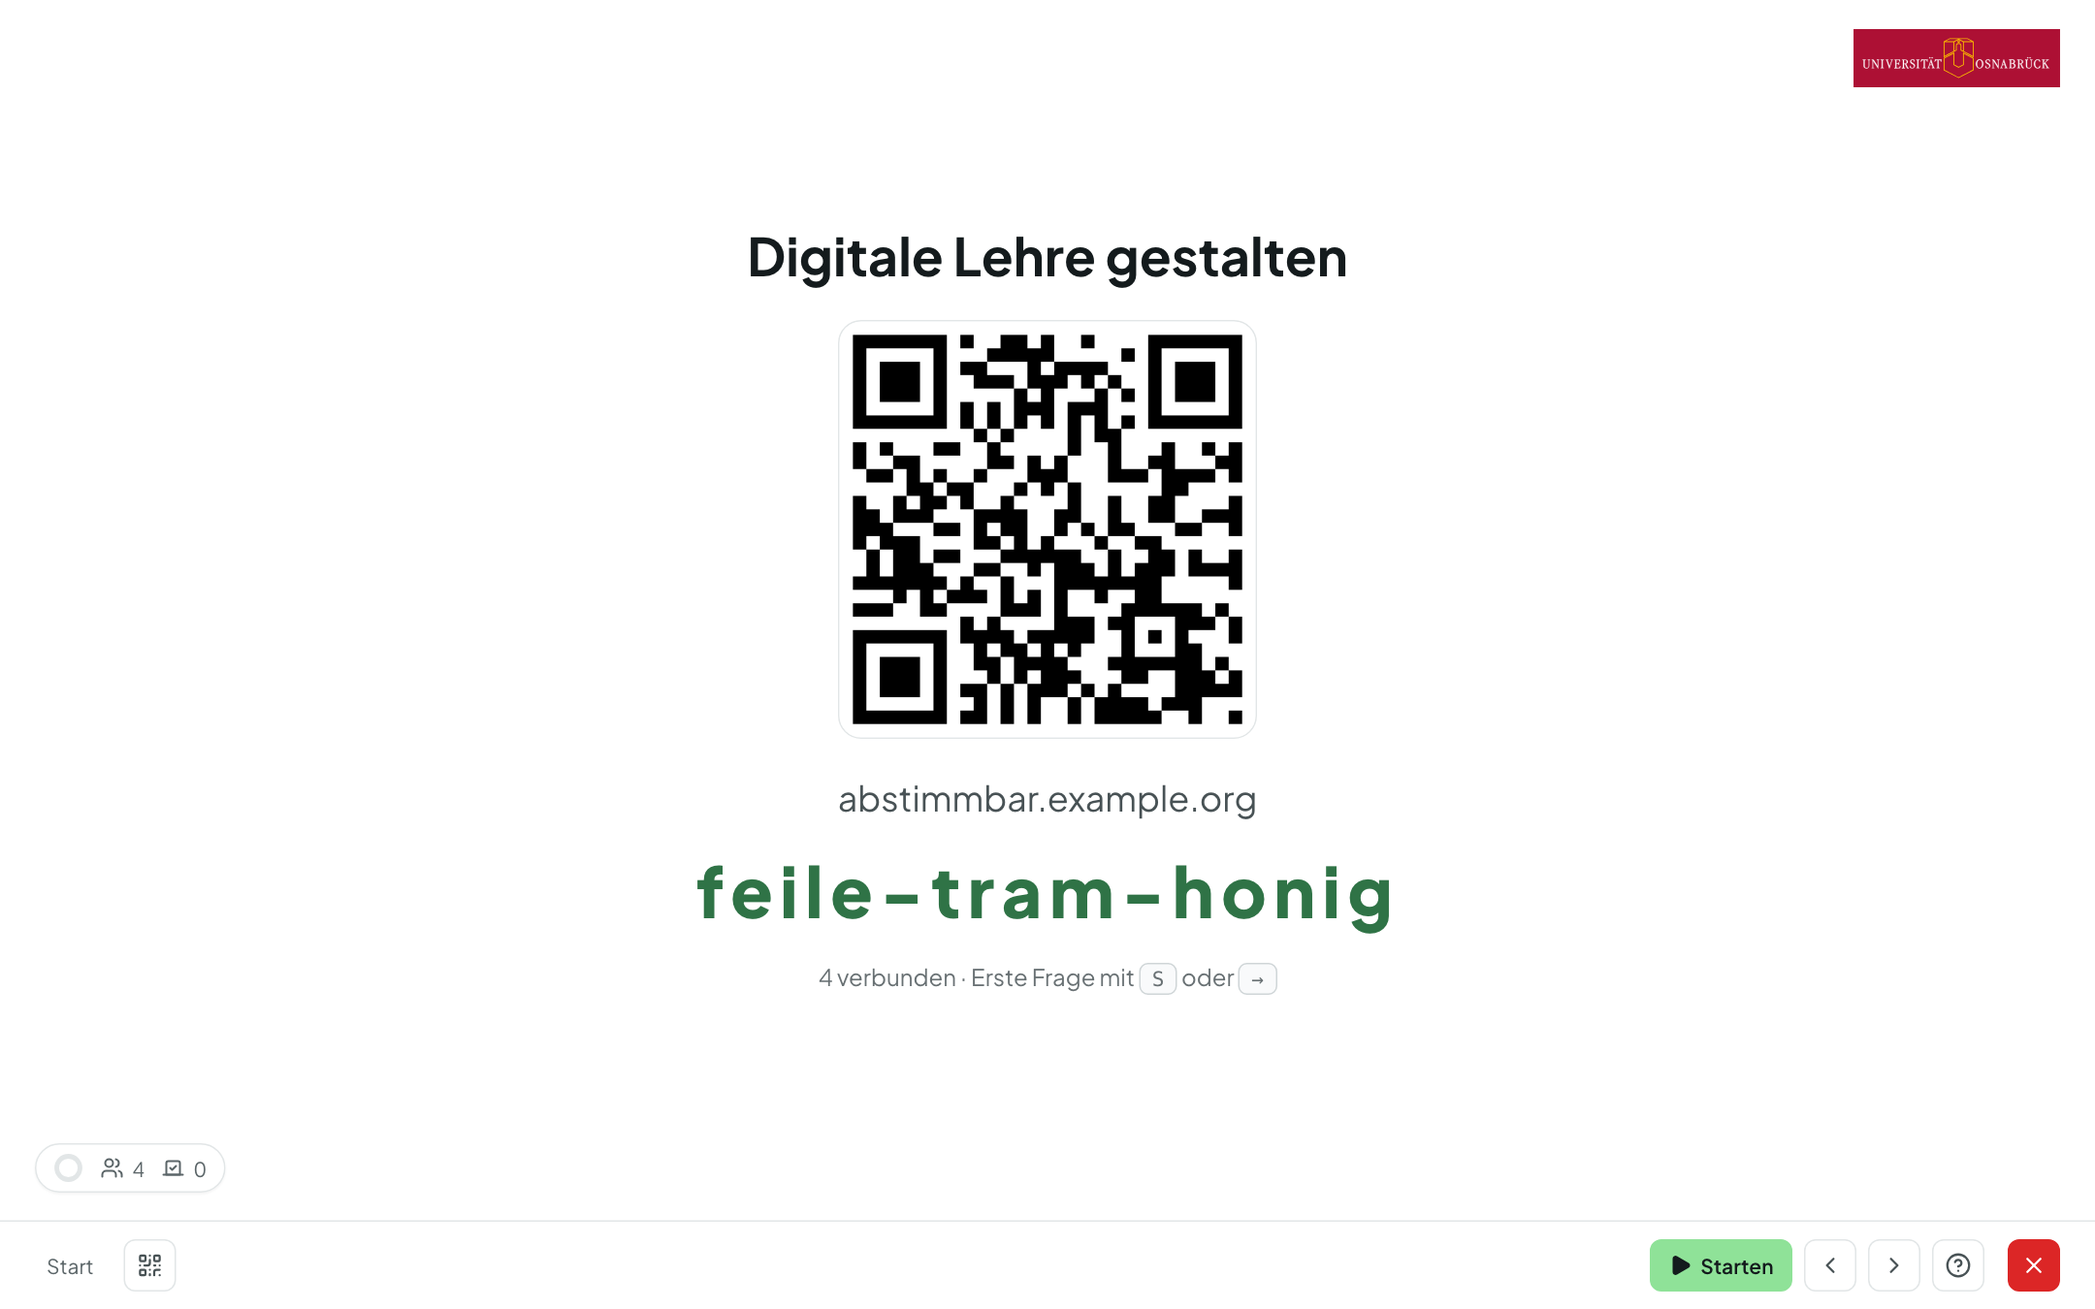
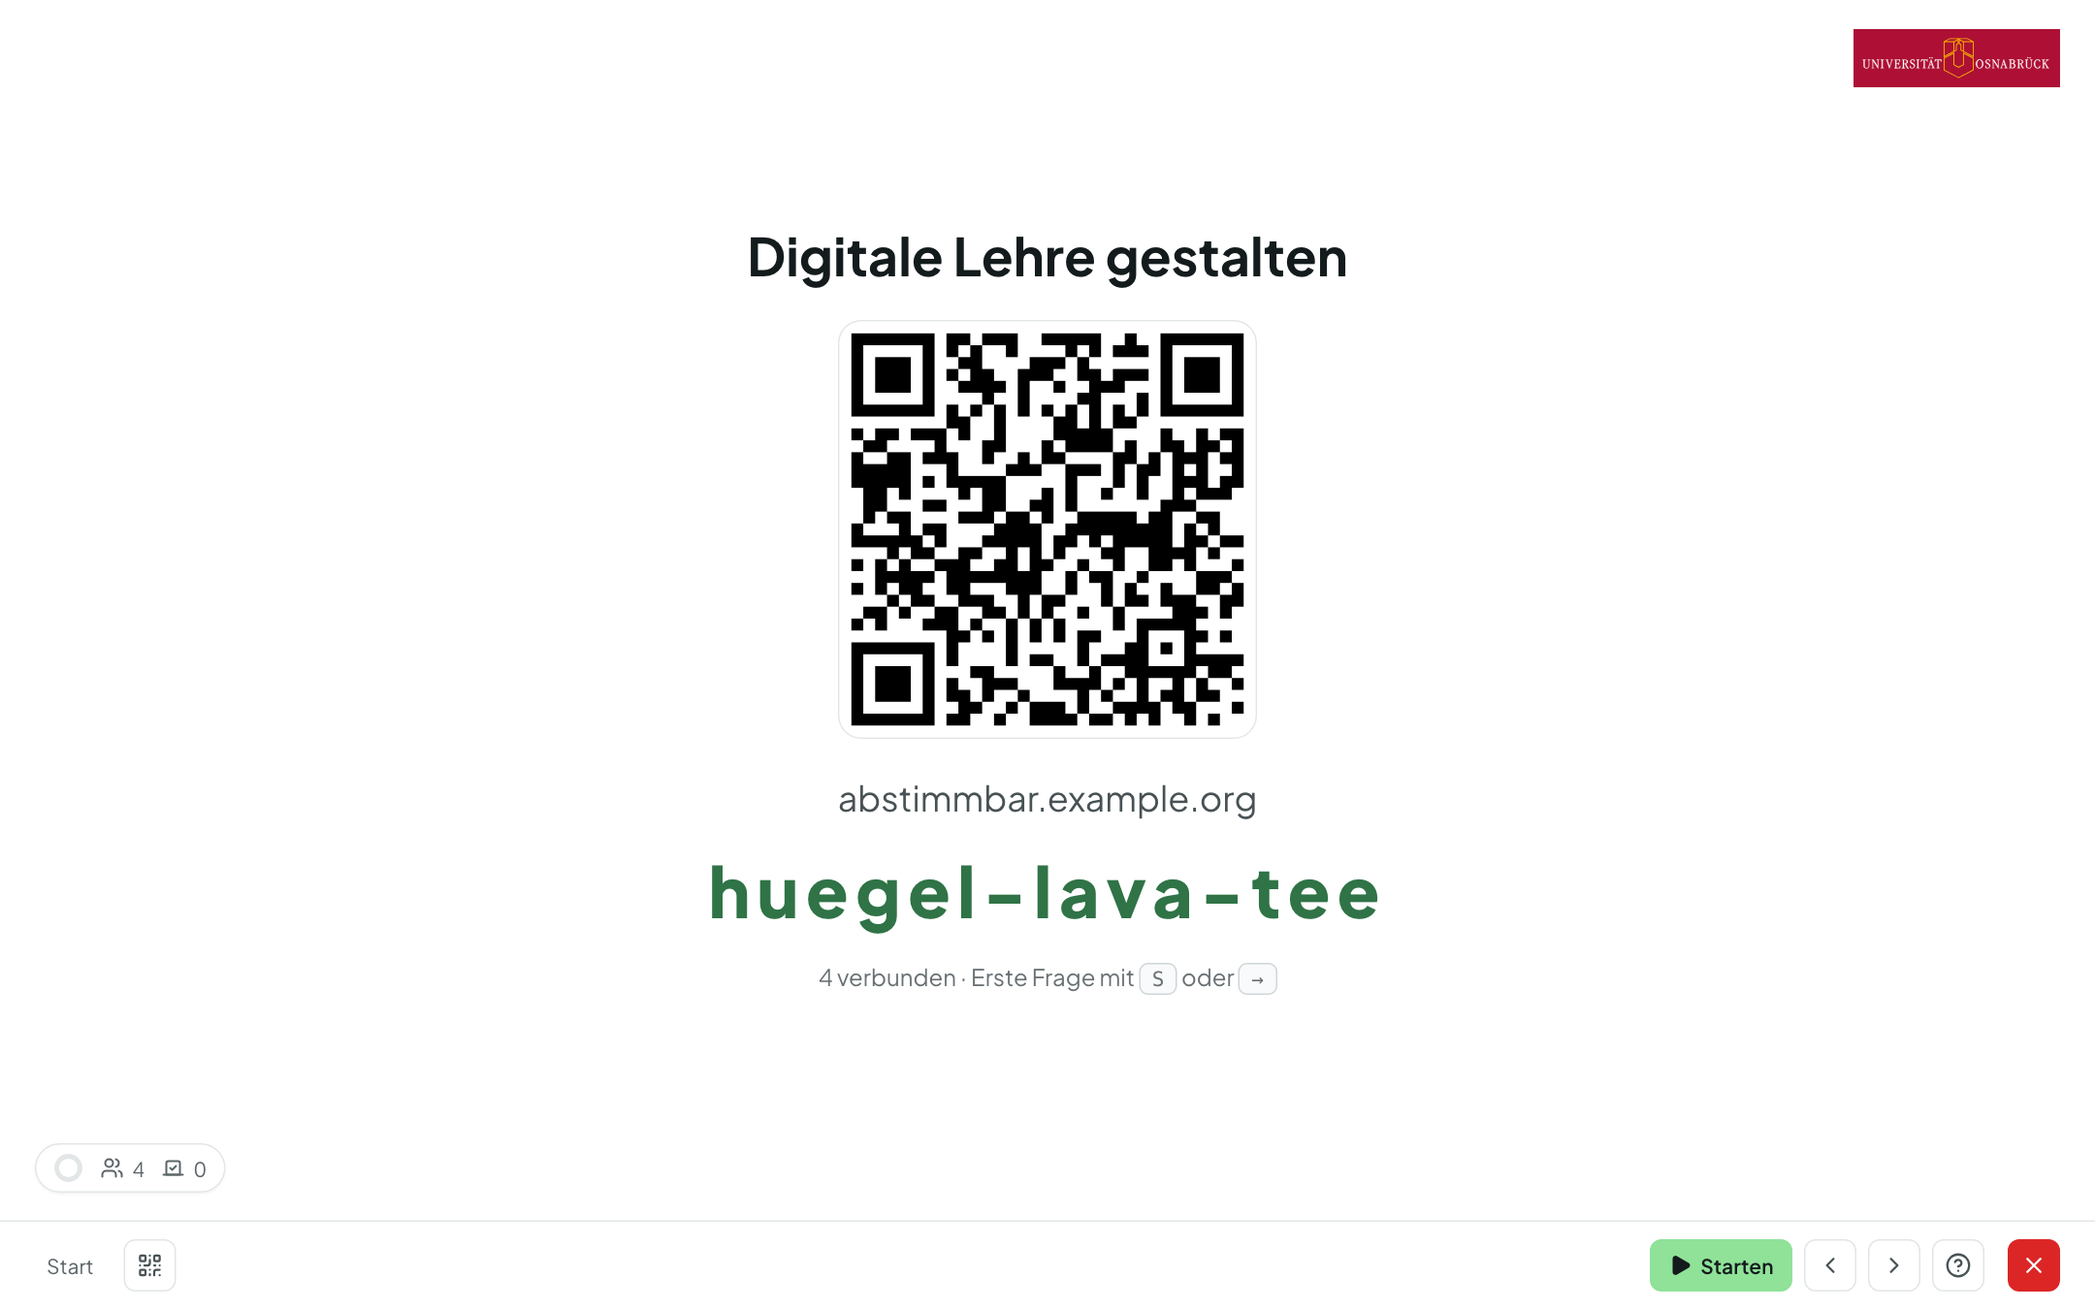
docs(site): review fixes — LMS wording, Sie-form deployment guide, public QR
- Landing/guide: LTI 1.3 "in Lernplattformen wie Moodle" (Stud.IP once it
  supports LTI 1.3), AI card wording, "1000 simulierte Teilnehmende".
- Guide: rating phase only for mind map and matrix, CSV "bewertung" column
  wording, collaborator suggestions as in the UI.
- docs/deployment.md converted to Sie-form (content unchanged).
- docs.yml: build on pull requests too; Pages upload/deploy only outside PRs.
- docs_links hook: normalise rewritten paths against docs/.
- Screenshot spec: the join QR encodes https://abstimmbar.example.org/p/<code>
  (generated with the backend's qrcode library), DOCS_SHOTS_ONLY filter;
  beamer-beitritt.png regenerated.
- website/README: run mkdocs from the repo root.

Changed region(s): [[0.4032, 0.2489, 0.6204, 0.56], [0.3102, 0.6533, 0.6824, 0.7156]]

diff --git a/frontend/e2e/docs-screenshots.spec.ts b/frontend/e2e/docs-screenshots.spec.ts
@@ -9,7 +9,11 @@
  *  Light theme; desktop/beamer 1440×900 and phone 390×844, rendered at
  *  device scale 1.5 / 2. Never calls an LLM: the matrix AI proposal is simulated
  *  and signed by the backend (`helpers/matrixAi.ts`) and route-mocked.
- *  DOCS_SHOTS_DIR=<dir> writes elsewhere (default: ../website/bilder). */
+ *  DOCS_SHOTS_DIR=<dir> writes elsewhere (default: ../website/bilder);
+ *  DOCS_SHOTS_ONLY=<name>,<name> writes only those shots (the run is the same).
+ *  The beamer's join QR encodes the public placeholder URL, generated with the
+ *  backend's own QR code library (needs `docker compose` in the repo root). */
+import { execFileSync } from 'node:child_process';
 import fs from 'node:fs';
 import path from 'node:path';
 import { fileURLToPath } from 'node:url';
@@ -20,7 +24,10 @@ import { applySummary, signedProposal } from './helpers/matrixAi';
 
 const HERE = path.dirname(fileURLToPath(import.meta.url));
 const OUT = path.resolve(process.env.DOCS_SHOTS_DIR ?? path.join(HERE, '../../website/bilder'));
+const ONLY = (process.env.DOCS_SHOTS_ONLY ?? '').split(',').map((n) => n.trim()).filter(Boolean);
 const PREFIX = 'E2E Docs';
+/** Host shown (and encoded in the QR) instead of the dev stack's localhost:8002. */
+const PUBLIC_HOST = 'abstimmbar.example.org';
 const DESKTOP = { width: 1440, height: 900 };
 const PHONE = { width: 390, height: 844 };
 const PHONE_UA =
@@ -63,6 +70,7 @@ const HIDE_TRANSIENT = `
 `;
 
 async function shot(page: Page, name: string) {
+  if (ONLY.length && !ONLY.includes(name)) return;
   await settle(page);
   await page.addStyleTag({ content: HIDE_TRANSIENT });
   await page.mouse.move(0, 0);
@@ -70,6 +78,20 @@ async function shot(page: Page, name: string) {
   const file = path.join(OUT, `${name}.png`);
   fs.writeFileSync(file, png);
   console.log(`  ${name}.png  ${Math.round(png.length / 1024)} KB`);
+}
+
+/** The room QR as production would render it: same library and settings as
+ *  `live.views.room_qr`, but for https://<PUBLIC_HOST>/p/<code> instead of
+ *  the dev host (the backend builds it from the request host). */
+function publicRoomQr(code: string): Buffer {
+  const script =
+    'import sys, qrcode; ' +
+    'qrcode.make(sys.argv[1], box_size=12, border=1).save(sys.stdout.buffer, format="PNG")';
+  return execFileSync(
+    'docker',
+    ['compose', 'exec', '-T', 'backend', 'python', '-c', script, `https://${PUBLIC_HOST}/p/${code}`],
+    { cwd: path.join(HERE, '../..') },
+  );
 }
 
 /** whoami as the screenshots want it: tour seen, expert mode, AI on. */
@@ -429,16 +451,20 @@ test('website screenshots', async ({ page, browser }) => {
     contexts.push(audience);
     for (let i = 0; i < 4; i++) await (await audience.newPage()).goto(`${API_BASE_URL}/p/${workshop.code}/`);
 
-    // Beamer join screen (no question open yet).
+    // Beamer join screen (no question open yet), QR for the public URL.
+    const qrPng = publicRoomQr(workshop.code);
+    await page.route(`**/p/${workshop.code}/qr.png`, (route) =>
+      route.fulfill({ status: 200, contentType: 'image/png', body: qrPng }),
+    );
     await page.goto(`/sets/${main.id}/present?resume=continue`);
     await expect(page.getByText(workshop.code).first()).toBeVisible();
     // The dev stack's join URL would read "localhost:8002".
-    await page.evaluate(() => {
+    await page.evaluate((host) => {
       const walker = document.createTreeWalker(document.body, NodeFilter.SHOW_TEXT);
       for (let node = walker.nextNode(); node; node = walker.nextNode())
         if (node.nodeValue?.includes('localhost:8002'))
-          node.nodeValue = node.nodeValue.replace(/https?:\/\/|localhost:8002/g, (m) => (m.startsWith('http') ? '' : 'abstimmbar.example.org'));
-    });
+          node.nodeValue = node.nodeValue.replace(/https?:\/\/|localhost:8002/g, (m) => (m.startsWith('http') ? '' : host));
+    }, PUBLIC_HOST);
     await shot(page, 'beamer-beitritt');
 
     // Phone: join page.

diff --git a/website/hooks/docs_links.py b/website/hooks/docs_links.py
@@ -43,7 +43,13 @@ class _Rewrite(Treeprocessor):
             target = posixpath.normpath(posixpath.join(page_dir, path))
             if _state["files"].get_file_from_path(target) is not None:
                 continue
-            link.set("href", GITHUB_DOCS + path + (f"#{anchor}" if anchor else ""))
+            # Included files live in docs/: resolve against that folder so
+            # "./x.md" or "sub/../x.md" end up as a clean docs/ path.
+            repo_path = posixpath.normpath(posixpath.join("docs", path))
+            if not repo_path.startswith("docs/"):
+                continue  # points outside docs/ — leave it to MkDocs' check
+            url = GITHUB_DOCS + repo_path[len("docs/"):]
+            link.set("href", url + (f"#{anchor}" if anchor else ""))
 
 
 class _RewriteExtension(Extension):

diff --git a/docs/deployment.md b/docs/deployment.md
@@ -27,8 +27,8 @@ Alltagskommandos, Updates, Zertifikate und Backup.
 ## Installation auf Rocky Linux 9 — Schritt für Schritt
 
 Eine komplette Anleitung für einen frischen **Rocky-Linux-9-Server**, so
-geschrieben, dass sie ohne Linux-Vorerfahrung nachvollziehbar ist. Kopiere
-jeden Befehl exakt.
+geschrieben, dass sie ohne Linux-Vorerfahrung nachvollziehbar ist. Kopieren
+Sie jeden Befehl exakt.
 
 **Wie es zusammenspielt (einmal lesen):** Auf dem Server wird nur eine
 Sache installiert — **Docker**. Docker lädt und betreibt alle Bausteine als
@@ -44,14 +44,14 @@ Präsentationsmodus.
 
 - Ein Server mit Rocky Linux 9 und ein Benutzer mit `sudo`-Rechten (oder
   `root` — dann das `sudo` vor den Befehlen weglassen).
-- Ein **Domainname** (z. B. `abstimmbar.example.org`), für den du einen
-  DNS-Eintrag anlegen kannst. HTTPS braucht eine echte Domain.
+- Ein **Domainname** (z. B. `abstimmbar.example.org`), für den Sie einen
+  DNS-Eintrag anlegen können. HTTPS braucht eine echte Domain.
 - Die **öffentliche IP-Adresse** des Servers.
 - Ein **OIDC-Client** im institutionellen Keycloak (Details unten; kann
   auch nachgereicht werden, der Stack startet ohne funktionierenden Login).
 
 > Notation: Zeilen mit `sudo` werden im Terminal des Servers ausgeführt.
-> Im Editor `nano` speicherst du mit **Strg+O**, **Enter** und verlässt ihn
+> Im Editor `nano` speichern Sie mit **Strg+O**, **Enter** und verlassen ihn
 > mit **Strg+X**.
 
 ### Schritt 1 — Am Server anmelden
@@ -59,7 +59,7 @@ Präsentationsmodus.
 Vom eigenen Rechner aus:
 
 ```bash
-ssh dein-benutzer@SERVER-IP        # z. B. ssh admin@203.0.113.10
+ssh BENUTZER@SERVER-IP            # z. B. ssh admin@203.0.113.10
 ```
 
 ### Schritt 2 — System aktualisieren und Grundwerkzeuge installieren
@@ -116,9 +116,9 @@ sudo firewall-cmd --list-services      # muss 'http' und 'https' enthalten
 > **Hinweis:** Manche Server (v. a. Cloud-/Rechenzentrums-VMs) haben keine
 > Host-Firewall, sondern filtern über eine externe **Security Group /
 > Netz-Firewall**. Wenn `firewall-cmd` trotz der Schritte oben
-> `FirewallD is not running` meldet — oder ihr bewusst kein firewalld
-> nutzt — überspringe diesen Schritt und lass stattdessen die Ports **80**
-> und **443** in der externen Firewall freischalten.
+> `FirewallD is not running` meldet — oder Sie bewusst kein firewalld
+> nutzen — überspringen Sie diesen Schritt und lassen Sie stattdessen die
+> Ports **80** und **443** in der externen Firewall freischalten.
 
 ### Schritt 5 — Domain auf den Server zeigen lassen (DNS)
 
@@ -144,7 +144,7 @@ cd abstimmbar
 ```
 
 (Für das interne Repo braucht der Server einen SSH-Key mit Lesezugriff
-oder du nutzt die HTTPS-URL mit Zugangsdaten.)
+oder Sie nutzen die HTTPS-URL mit Zugangsdaten.)
 
 ### Schritt 7 — Konfigurationsdatei anlegen
 
@@ -190,7 +190,7 @@ Start des Stacks (Schritt 10) automatisch lädt. Definiert ist es in
 
 **Wo die Konfiguration liegt:** in der Datei `Caddyfile` im Projektordner,
 also `/opt/abstimmbar/Caddyfile`. Das Compose-File hängt sie **read-only in
-den Container** — du bearbeitest sie auf dem Host, nichts muss kopiert
+den Container** — Sie bearbeiten sie auf dem Host, nichts muss kopiert
 werden.
 
 Zwei Dinge ändern: die Domain in der Zeile `abstimmbar.example.org {` und
@@ -201,9 +201,9 @@ cd /opt/abstimmbar
 sudo nano Caddyfile
 ```
 
-Zertifikate richtest du **nicht** von Hand ein — Caddy besorgt und
+Zertifikate richten Sie **nicht** von Hand ein — Caddy besorgt und
 erneuert das Let's-Encrypt-Zertifikat automatisch, sobald Domain und Ports
-stimmen. Spätere Änderungen am Caddyfile übernimmst du mit
+stimmen. Spätere Änderungen am Caddyfile übernehmen Sie mit
 `sudo docker compose -f docker-compose.prod.yml restart caddy`.
 
 ### Schritt 9 — Dateien für SELinux freigeben
@@ -268,7 +268,7 @@ Ja — das Setup ist reboot-sicher:
 
 - Docker startet beim Boot (`systemctl enable docker`, Schritt 3).
 - Alle Dienste haben `restart: unless-stopped` — Datenbank, Backend und
-  Caddy kommen nach einem Reboot von selbst wieder hoch (außer du hast
+  Caddy kommen nach einem Reboot von selbst wieder hoch (außer Sie haben
   den Stack bewusst mit `… down` gestoppt).
 - Alle Daten liegen in persistenten Volumes: Datenbank (`postgres_data`),
   hochgeladene Bilder (`media_data`), Zertifikate (`caddy_data`). Beim
@@ -416,7 +416,7 @@ Stellen ergänzen:
 nötig**: die SPA nutzt standardmäßig relative URLs (gleicher Origin wie die
 API, hinter Caddy). Nur für einen bewusst abweichenden Aufbau (SPA und API
 auf unterschiedlichen Origins) setzen. Vite backt den Wert dann **zur
-Buildzeit** fest ins Bundle — das funktioniert nur, wenn du selbst baust
+Buildzeit** fest ins Bundle — das funktioniert nur, wenn Sie selbst bauen
 (`up -d --build`); ein veröffentlichtes Release-Image wurde bereits mit dem
 Standardwert gebaut und lässt sich nicht nachträglich umkonfigurieren.
 

diff --git a/website/README.md b/website/README.md
@@ -27,7 +27,11 @@ Vier-Felder-Matrix wird vom Backend simuliert und signiert
 - Desktop/Beamer: 1440 × 900 CSS-Pixel bei Skalierung 1,5 (2160 × 1350 px),
   Handy: 390 × 844 bei Skalierung 2 (780 × 1688 px); helles Design.
 - Einmalige Hinweise (KI-Datenschutzhinweis, Tipps) sind ausgeblendet; die
-  Beitritts-URL auf dem Beamer wird als `abstimmbar.example.org` angezeigt.
+  Beitritts-URL auf dem Beamer wird als `abstimmbar.example.org` angezeigt,
+  und der QR-Code kodiert `https://abstimmbar.example.org/p/<code>` (erzeugt
+  mit der QR-Bibliothek des Backends per `docker compose exec`).
+- `DOCS_SHOTS_ONLY=beamer-beitritt npm run docs:shots` schreibt nur die
+  genannten Bilder (Komma-Liste); der Lauf selbst ist derselbe.
 - `DOCS_SHOTS_DIR=<ordner> npm run docs:shots` schreibt in einen anderen
   Ordner (z. B. zum Vergleichen).
 
@@ -39,7 +43,11 @@ normales `npx playwright test` führt das Skript also nicht aus.
 Die Website ist eine [MkDocs-Material](https://squidfunk.github.io/mkdocs-material/)-Seite
 (`mkdocs.yml` in diesem Ordner). Der Workflow `.github/workflows/docs.yml`
 baut sie bei Änderungen auf `main` und veröffentlicht sie auf GitHub Pages.
-Lokal, in einer eigenen virtuellen Umgebung:
+Lokal, in einer eigenen virtuellen Umgebung — alle `mkdocs`-Befehle **im
+Repo-Root** ausführen und die Konfiguration relativ angeben
+(`-f website/mkdocs.yml`); die Einbindungen von `docs/*.md` und der
+Ausgabeordner `site/` (Repo-Root, per `.gitignore` ausgenommen) beziehen
+sich auf diesen Aufbau:
 
 ```bash
 python3 -m venv /tmp/abstimmbar-docs && . /tmp/abstimmbar-docs/bin/activate

diff --git a/website/index.md b/website/index.md
@@ -37,8 +37,8 @@ bis zur gemeinsam gebauten Mindmap.
 <ul class="ab-facts">
   <li><strong>Anonym</strong><span>kein Konto, keine IP-Adressen zu den Stimmen</span></li>
   <li><strong>Zehn Fragetypen</strong><span>vom Quiz bis zur Vier-Felder-Matrix</span></li>
-  <li><strong>LTI 1.3</strong><span>Einbindung in Moodle und Stud.IP</span></li>
-  <li><strong>1000 Teilnehmende</strong><span>gleichzeitig im Lasttest</span></li>
+  <li><strong>LTI 1.3</strong><span>Einbindung in Lernplattformen wie Moodle</span></li>
+  <li><strong>1000 simulierte Teilnehmende</strong><span>gleichzeitig im Lasttest</span></li>
   <li><strong>Deutsch &amp; Englisch</strong><span>Oberfläche und Inhalte</span></li>
 </ul>
 
@@ -199,7 +199,8 @@ gleich.
 
     Alle KI-Funktionen sind abschaltbar und laufen nur über den Dienst, den
     Ihre Einrichtung konfiguriert — auch ein selbst betriebenes Modell ist
-    möglich. Ans Modell gehen Inhalte, keine Personendaten.
+    möglich. Ans Modell gehen nur Inhalte wie Fragen und Antworten – keine
+    Namen, Kennungen oder Konten der Teilnehmenden.
 
 -   :material-scale-balance: __Open Source__
 

diff --git a/website/anleitung/anmelden.md b/website/anleitung/anmelden.md
@@ -7,9 +7,10 @@ description: Anmeldung per Single Sign-on oder LMS, einfacher und Experten-Modus
 
 ## Anmelden
 
-Melden Sie sich mit Ihrer gewohnten Uni-Kennung an (Single Sign-on). Wenn Ihre
-Lehrveranstaltung in Stud.IP oder Moodle liegt, können Sie Abstimmbar dort auch
-direkt als Aktivität einbinden (LTI 1.3) und ersparen sich das separate Login
+Melden Sie sich mit Ihrer gewohnten Uni-Kennung an (Single Sign-on). Sie
+können Abstimmbar auch direkt als Aktivität in Ihre Lernplattform einbinden
+(LTI 1.3; z. B. Moodle; Stud.IP, sobald dort LTI 1.3 verfügbar ist) und
+ersparen sich so das separate Login
 — wie das geht, steht unter [LMS-Einbindung](../lti.md#anleitung-für-lehrende).
 Räume, die aus dem LMS heraus entstanden sind, tragen auf der Startseite den
 Hinweis **„aus LMS“**.

diff --git a/website/anleitung/tipps.md b/website/anleitung/tipps.md
@@ -14,7 +14,8 @@ description: Kurze Tipps für den Einsatz von Abstimmbar in der Lehrveranstaltun
   können.
 - Mit [Vorher-Nachher-Fragen](fragen.md#vorher-nachher-fragen-experten-modus)
   machen Sie Lerneffekte sichtbar.
-- Für Ideensammlungen eignen sich Wortwolke, Mindmap und Vier-Felder-Matrix —
-  mit anschließender Bewertungsphase entsteht daraus direkt eine Priorisierung.
+- Für Ideensammlungen eignen sich Wortwolke, Mindmap und Vier-Felder-Matrix.
+  Bei Mindmap und Vier-Felder-Matrix entsteht mit einer anschließenden
+  Bewertungsphase direkt eine Priorisierung.
 - Für die Nachbereitung zu Hause: eine [Lernkontrolle](durchfuehrung.md#lernkontrolle)
   mit Dauer-Link, z. B. verlinkt im LMS.

diff --git a/website/anleitung/team.md b/website/anleitung/team.md
@@ -11,8 +11,9 @@ haben im Raum dieselben Rechte.
 
 - Öffnen Sie im Raum über das Menü **⋮** **Gemeinsam bearbeiten** und
   fügen Sie eine weitere Person über deren **Kennung oder E-Mail-Adresse**
-  hinzu. Die Person muss sich zuvor einmal angemeldet haben. Personen, mit
-  denen Sie schon einen Raum teilen, schlägt Abstimmbar direkt vor.
+  hinzu. Die Person muss sich zuvor einmal angemeldet haben. Als Vorschläge
+  erscheinen Personen, die Sie schon einmal per E-Mail-Adresse hinzugefügt
+  haben.
 - Geteilte Räume erscheinen bei der eingeladenen Person unter
   **„Mit mir geteilt“**.
 - Die Besitzrolle lässt sich bei Bedarf übergeben (**Zum Besitzer machen**).

diff --git a/website/anleitung/ergebnisse.md b/website/anleitung/ergebnisse.md
@@ -39,7 +39,7 @@ Dort können Sie:
 Im CSV-Export hat jede sichtbare Karte einer Vier-Felder-Matrix eine Zeile mit
 den Spalten **beschreibung**, **kategorie**, **zone**, **x**, **y** und
 **stapel** (x und y liegen zwischen −1 und 1; ausgeblendete Karten fehlen).
-Mit Bewertung kommt die Spalte **bewertung** hinzu: bei Punkten die Summe, bei
+Mit Bewertung ist die Spalte **bewertung** gefüllt: bei Punkten die Summe, bei
 Plus/Minus im Format „+3/−1 (2)“ (Zustimmung/Ablehnung und Saldo) – wie bei
 der Mindmap.
 

diff --git a/website/anleitung/index.md b/website/anleitung/index.md
@@ -70,6 +70,7 @@ angemeldete Lehrperson können Sie außerdem jederzeit einen
 
 </div>
 
-Zum Schluss: [Tipps für die Lehre](tipps.md). Die Einbindung in Moodle oder
-Stud.IP richtet Ihre Administration ein; was Sie als Lehrperson dort tun,
+Zum Schluss: [Tipps für die Lehre](tipps.md). Die Einbindung in Ihre
+Lernplattform (z. B. Moodle; Stud.IP, sobald dort LTI 1.3 verfügbar ist)
+richtet Ihre Administration ein; was Sie als Lehrperson dort tun,
 steht unter [LMS-Einbindung](../lti.md#anleitung-für-lehrende).

diff --git a/website/installation.md b/website/installation.md
@@ -16,7 +16,7 @@ Keycloak); Teilnehmende brauchen kein Konto.
     Der folgende Text ist die Betriebsanleitung aus dem Repository
     ([`docs/deployment.md`](https://github.com/virtUOS/abstimmbar/blob/main/docs/deployment.md))
     und wird bei jedem Website-Build von dort übernommen. Die Einbindung in
-    Moodle oder Stud.IP beschreibt die Seite
+    Lernplattformen wie Moodle beschreibt die Seite
     [LMS-Einbindung (LTI 1.3)](lti.md).
 
 --8<-- "docs/deployment.md:2"
